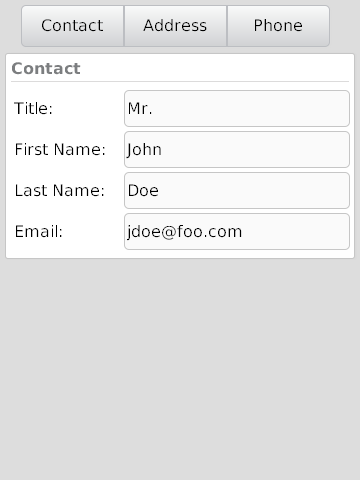
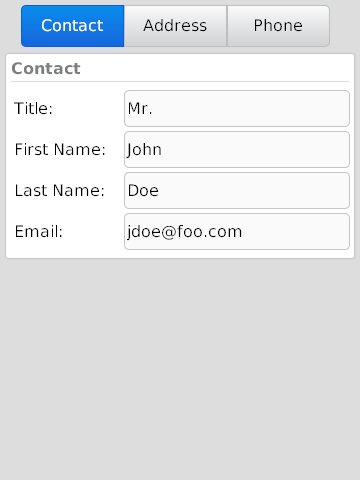
added state to pill buttons

Changed region(s): [[0.0611, 0.0, 0.3667, 0.125]]

diff --git a/samples/bbUI/bbUI.js b/samples/bbUI/bbUI.js
@@ -874,20 +874,74 @@ bb = {
 						var innerChildNode = items[j];
 						innerChildNode.setAttribute('x-blackberry-focusable','true');
 						if (j == 0) {  // First button
-							innerChildNode.setAttribute('class','bb-bb7-pill-button bb-bb7-pill-button-left '+ buttonStyle);
-							innerChildNode.setAttribute('onmouseover',"this.setAttribute('class','bb-bb7-pill-button-highlight bb-bb7-pill-button-left " + buttonStyle +"')");
-							innerChildNode.setAttribute('onmouseout',"this.setAttribute('class','bb-bb7-pill-button bb-bb7-pill-button-left " + buttonStyle +"')");
+							if (innerChildNode.getAttribute('data-bb-selected') == 'true') {
+								innerChildNode.setAttribute('class','bb-bb7-pill-button-highlight bb-bb7-pill-button-left '+ buttonStyle);
+							} else {
+								innerChildNode.setAttribute('class','bb-bb7-pill-button bb-bb7-pill-button-left '+ buttonStyle);
+								innerChildNode.setAttribute('onmouseover',"this.setAttribute('class','bb-bb7-pill-button-highlight bb-bb7-pill-button-left " + buttonStyle +"')");
+								innerChildNode.setAttribute('onmouseout',"this.setAttribute('class','bb-bb7-pill-button bb-bb7-pill-button-left " + buttonStyle +"')");
+							}
 						} else if (j == items.length -1) { // Right button
-							innerChildNode.setAttribute('class','bb-bb7-pill-button bb-bb7-pill-button-right ' + buttonStyle);
-							innerChildNode.setAttribute('onmouseover',"this.setAttribute('class','bb-bb7-pill-button-highlight bb-bb7-pill-button-right " + buttonStyle +"')");
-							innerChildNode.setAttribute('onmouseout',"this.setAttribute('class','bb-bb7-pill-button bb-bb7-pill-button-right " + buttonStyle +"')");
+							if (innerChildNode.getAttribute('data-bb-selected') == 'true') {
+								innerChildNode.setAttribute('class','bb-bb7-pill-button-highlight bb-bb7-pill-button-right '+ buttonStyle);
+							} else {
+								innerChildNode.setAttribute('class','bb-bb7-pill-button bb-bb7-pill-button-right ' + buttonStyle);
+								innerChildNode.setAttribute('onmouseover',"this.setAttribute('class','bb-bb7-pill-button-highlight bb-bb7-pill-button-right " + buttonStyle +"')");
+								innerChildNode.setAttribute('onmouseout',"this.setAttribute('class','bb-bb7-pill-button bb-bb7-pill-button-right " + buttonStyle +"')");
+							}
 						} else { // Middle Buttons
-							innerChildNode.setAttribute('class','bb-bb7-pill-button ' + buttonStyle);
-							innerChildNode.setAttribute('onmouseover',"this.setAttribute('class','bb-bb7-pill-button-highlight " + buttonStyle +"')");
-							innerChildNode.setAttribute('onmouseout',"this.setAttribute('class','bb-bb7-pill-button " + buttonStyle +"')");
+							if (innerChildNode.getAttribute('data-bb-selected') == 'true') {
+								innerChildNode.setAttribute('class','bb-bb7-pill-button-highlight '+ buttonStyle);
+							} else {
+								innerChildNode.setAttribute('class','bb-bb7-pill-button ' + buttonStyle);
+								innerChildNode.setAttribute('onmouseover',"this.setAttribute('class','bb-bb7-pill-button-highlight " + buttonStyle +"')");
+								innerChildNode.setAttribute('onmouseout',"this.setAttribute('class','bb-bb7-pill-button " + buttonStyle +"')");
+							}
 						}
 						// Set our width
 						innerChildNode.style.width = percentWidth + '%';
+						// Add our subscription for click events to change highlighting
+						innerChildNode.addEventListener('click',function (e) {
+								var items = this.parentNode.querySelectorAll('[data-bb-type=pill-button]');
+								for (var j = 0; j < items.length; j++) {
+									var innerChildNode = items[j];
+									
+									if (j == 0) {  // First button
+										if (innerChildNode == this) {
+											innerChildNode.setAttribute('class','bb-bb7-pill-button-highlight bb-bb7-pill-button-left '+ buttonStyle);
+											innerChildNode.onmouseover = null;
+											innerChildNode.onmouseout = null;
+										} else {
+											innerChildNode.setAttribute('class','bb-bb7-pill-button bb-bb7-pill-button-left '+ buttonStyle);
+											innerChildNode.setAttribute('onmouseover',"this.setAttribute('class','bb-bb7-pill-button-highlight bb-bb7-pill-button-left " + buttonStyle +"')");
+											innerChildNode.setAttribute('onmouseout',"this.setAttribute('class','bb-bb7-pill-button bb-bb7-pill-button-left " + buttonStyle +"')");
+										}
+									} else if (j == items.length -1) { // Right button
+										if (innerChildNode == this) {
+											innerChildNode.setAttribute('class','bb-bb7-pill-button-highlight bb-bb7-pill-button-right '+ buttonStyle);
+											innerChildNode.onmouseover = null;
+											innerChildNode.onmouseout = null;
+										} else {
+											innerChildNode.setAttribute('class','bb-bb7-pill-button bb-bb7-pill-button-right ' + buttonStyle);
+											innerChildNode.setAttribute('onmouseover',"this.setAttribute('class','bb-bb7-pill-button-highlight bb-bb7-pill-button-right " + buttonStyle +"')");
+											innerChildNode.setAttribute('onmouseout',"this.setAttribute('class','bb-bb7-pill-button bb-bb7-pill-button-right " + buttonStyle +"')");
+										}
+									} else { // Middle Buttons
+										if (innerChildNode == this) {
+											innerChildNode.setAttribute('class','bb-bb7-pill-button-highlight '+ buttonStyle);
+											innerChildNode.onmouseover = null;
+											innerChildNode.onmouseout = null;
+										} else {
+											innerChildNode.setAttribute('class','bb-bb7-pill-button ' + buttonStyle);
+											innerChildNode.setAttribute('onmouseover',"this.setAttribute('class','bb-bb7-pill-button-highlight " + buttonStyle +"')");
+											innerChildNode.setAttribute('onmouseout',"this.setAttribute('class','bb-bb7-pill-button " + buttonStyle +"')");
+										}
+									}
+								}
+								
+							},false);
+						
+						
 					}
 				}			
 			}

diff --git a/src/bbUI.js b/src/bbUI.js
@@ -874,20 +874,74 @@ bb = {
 						var innerChildNode = items[j];
 						innerChildNode.setAttribute('x-blackberry-focusable','true');
 						if (j == 0) {  // First button
-							innerChildNode.setAttribute('class','bb-bb7-pill-button bb-bb7-pill-button-left '+ buttonStyle);
-							innerChildNode.setAttribute('onmouseover',"this.setAttribute('class','bb-bb7-pill-button-highlight bb-bb7-pill-button-left " + buttonStyle +"')");
-							innerChildNode.setAttribute('onmouseout',"this.setAttribute('class','bb-bb7-pill-button bb-bb7-pill-button-left " + buttonStyle +"')");
+							if (innerChildNode.getAttribute('data-bb-selected') == 'true') {
+								innerChildNode.setAttribute('class','bb-bb7-pill-button-highlight bb-bb7-pill-button-left '+ buttonStyle);
+							} else {
+								innerChildNode.setAttribute('class','bb-bb7-pill-button bb-bb7-pill-button-left '+ buttonStyle);
+								innerChildNode.setAttribute('onmouseover',"this.setAttribute('class','bb-bb7-pill-button-highlight bb-bb7-pill-button-left " + buttonStyle +"')");
+								innerChildNode.setAttribute('onmouseout',"this.setAttribute('class','bb-bb7-pill-button bb-bb7-pill-button-left " + buttonStyle +"')");
+							}
 						} else if (j == items.length -1) { // Right button
-							innerChildNode.setAttribute('class','bb-bb7-pill-button bb-bb7-pill-button-right ' + buttonStyle);
-							innerChildNode.setAttribute('onmouseover',"this.setAttribute('class','bb-bb7-pill-button-highlight bb-bb7-pill-button-right " + buttonStyle +"')");
-							innerChildNode.setAttribute('onmouseout',"this.setAttribute('class','bb-bb7-pill-button bb-bb7-pill-button-right " + buttonStyle +"')");
+							if (innerChildNode.getAttribute('data-bb-selected') == 'true') {
+								innerChildNode.setAttribute('class','bb-bb7-pill-button-highlight bb-bb7-pill-button-right '+ buttonStyle);
+							} else {
+								innerChildNode.setAttribute('class','bb-bb7-pill-button bb-bb7-pill-button-right ' + buttonStyle);
+								innerChildNode.setAttribute('onmouseover',"this.setAttribute('class','bb-bb7-pill-button-highlight bb-bb7-pill-button-right " + buttonStyle +"')");
+								innerChildNode.setAttribute('onmouseout',"this.setAttribute('class','bb-bb7-pill-button bb-bb7-pill-button-right " + buttonStyle +"')");
+							}
 						} else { // Middle Buttons
-							innerChildNode.setAttribute('class','bb-bb7-pill-button ' + buttonStyle);
-							innerChildNode.setAttribute('onmouseover',"this.setAttribute('class','bb-bb7-pill-button-highlight " + buttonStyle +"')");
-							innerChildNode.setAttribute('onmouseout',"this.setAttribute('class','bb-bb7-pill-button " + buttonStyle +"')");
+							if (innerChildNode.getAttribute('data-bb-selected') == 'true') {
+								innerChildNode.setAttribute('class','bb-bb7-pill-button-highlight '+ buttonStyle);
+							} else {
+								innerChildNode.setAttribute('class','bb-bb7-pill-button ' + buttonStyle);
+								innerChildNode.setAttribute('onmouseover',"this.setAttribute('class','bb-bb7-pill-button-highlight " + buttonStyle +"')");
+								innerChildNode.setAttribute('onmouseout',"this.setAttribute('class','bb-bb7-pill-button " + buttonStyle +"')");
+							}
 						}
 						// Set our width
 						innerChildNode.style.width = percentWidth + '%';
+						// Add our subscription for click events to change highlighting
+						innerChildNode.addEventListener('click',function (e) {
+								var items = this.parentNode.querySelectorAll('[data-bb-type=pill-button]');
+								for (var j = 0; j < items.length; j++) {
+									var innerChildNode = items[j];
+									
+									if (j == 0) {  // First button
+										if (innerChildNode == this) {
+											innerChildNode.setAttribute('class','bb-bb7-pill-button-highlight bb-bb7-pill-button-left '+ buttonStyle);
+											innerChildNode.onmouseover = null;
+											innerChildNode.onmouseout = null;
+										} else {
+											innerChildNode.setAttribute('class','bb-bb7-pill-button bb-bb7-pill-button-left '+ buttonStyle);
+											innerChildNode.setAttribute('onmouseover',"this.setAttribute('class','bb-bb7-pill-button-highlight bb-bb7-pill-button-left " + buttonStyle +"')");
+											innerChildNode.setAttribute('onmouseout',"this.setAttribute('class','bb-bb7-pill-button bb-bb7-pill-button-left " + buttonStyle +"')");
+										}
+									} else if (j == items.length -1) { // Right button
+										if (innerChildNode == this) {
+											innerChildNode.setAttribute('class','bb-bb7-pill-button-highlight bb-bb7-pill-button-right '+ buttonStyle);
+											innerChildNode.onmouseover = null;
+											innerChildNode.onmouseout = null;
+										} else {
+											innerChildNode.setAttribute('class','bb-bb7-pill-button bb-bb7-pill-button-right ' + buttonStyle);
+											innerChildNode.setAttribute('onmouseover',"this.setAttribute('class','bb-bb7-pill-button-highlight bb-bb7-pill-button-right " + buttonStyle +"')");
+											innerChildNode.setAttribute('onmouseout',"this.setAttribute('class','bb-bb7-pill-button bb-bb7-pill-button-right " + buttonStyle +"')");
+										}
+									} else { // Middle Buttons
+										if (innerChildNode == this) {
+											innerChildNode.setAttribute('class','bb-bb7-pill-button-highlight '+ buttonStyle);
+											innerChildNode.onmouseover = null;
+											innerChildNode.onmouseout = null;
+										} else {
+											innerChildNode.setAttribute('class','bb-bb7-pill-button ' + buttonStyle);
+											innerChildNode.setAttribute('onmouseover',"this.setAttribute('class','bb-bb7-pill-button-highlight " + buttonStyle +"')");
+											innerChildNode.setAttribute('onmouseout',"this.setAttribute('class','bb-bb7-pill-button " + buttonStyle +"')");
+										}
+									}
+								}
+								
+							},false);
+						
+						
 					}
 				}			
 			}

diff --git a/README.md b/README.md
@@ -431,9 +431,11 @@ Pill Buttons are a &lt;div&gt; with a **data-bb-type="pill-buttons"** attribute.
 a **data-bb-type="pill-button"** attribute. The caption the button is determined by the contents of the &lt;div&gt;.  The bbUI tookit knows which button is first and
 last to create the rounded ends of the pill button UI.  To handle the click of the button simply add an "onclick" handler.
 
+To specify which button should be selected by default simply add the **data-bb-selected="true"** attribute to the default button.
+
 	<div data-bb-type="screen">
 		 <div data-bb-type="pill-buttons">
-			<div data-bb-type="pill-button" onclick="selectContact()">Contact</div>
+			<div data-bb-type="pill-button" data-bb-selected="true" onclick="selectContact()">Contact</div>
 			<div data-bb-type="pill-button" onclick="selectAddress()">Address</div>
 			<div data-bb-type="pill-button" onclick="selectPhone()">Phone</div>
 		 </div>
